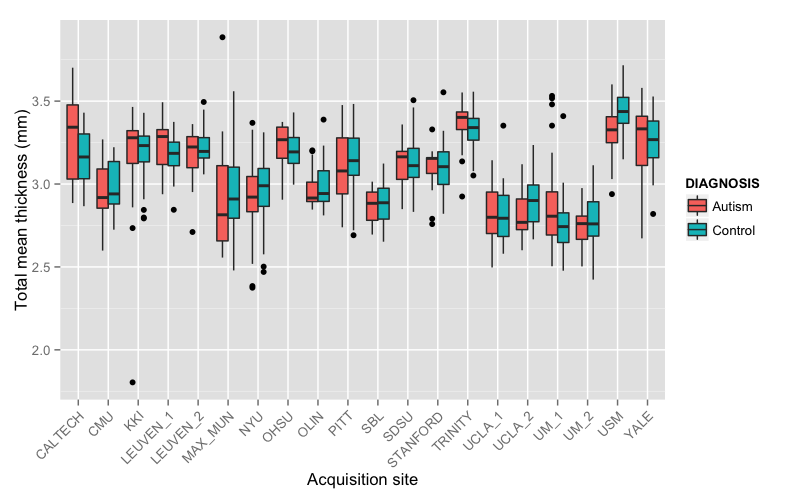
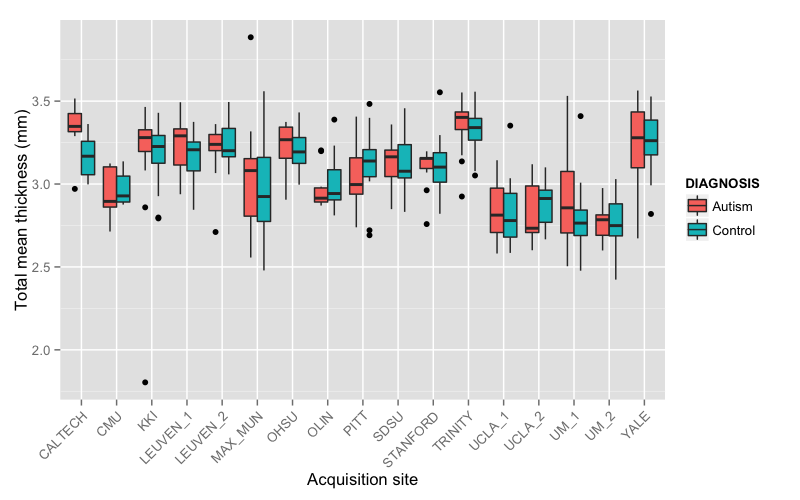
ENH: anova.

diff --git a/index.html b/index.html
@@ -59,6 +59,24 @@
     <style type="text/css">code{white-space: pre;}</style>
 
 
+<style type="text/css">
+table.sourceCode, tr.sourceCode, td.lineNumbers, td.sourceCode {
+  margin: 0; padding: 0; vertical-align: baseline; border: none; }
+table.sourceCode { width: 100%; line-height: 100%; }
+td.lineNumbers { text-align: right; padding-right: 4px; padding-left: 4px; background-color: #dddddd; }
+td.sourceCode { padding-left: 5px; }
+code > span.kw { font-weight: bold; }
+code > span.dt { color: #800000; }
+code > span.dv { color: #0000ff; }
+code > span.bn { color: #0000ff; }
+code > span.fl { color: #800080; }
+code > span.ch { color: #ff00ff; }
+code > span.st { color: #dd0000; }
+code > span.co { color: #808080; font-style: italic; }
+code > span.al { color: #00ff00; font-weight: bold; }
+code > span.fu { color: #000080; }
+code > span.er { color: #ff0000; font-weight: bold; }
+</style>
 
 <link rel="stylesheet" href="index_files/reveal.js-2.6.1/css/theme/beige.css" id="theme">
 
@@ -77,12 +95,19 @@
     <h3 class="date">November 23, 2014</h3>
 </section>
 
-<section><section id="demographics" class="titleslide slide level1"><h1>Demographics</h1></section><section id="all-sites" class="slide level2">
+<section><section id="demographics" class="titleslide slide level1"><h1>Demographics</h1></section><section id="subset-criteria" class="slide level2">
+<h1>Subset Criteria</h1>
+<ul>
+<li>Males</li>
+<li>age: [6, 35]</li>
+<li>handedness: right</li>
+</ul>
+</section><section id="all-sites" class="slide level2">
 <h1>All sites</h1>
-<p>Total number of studies = 979</p>
-<p>males = 833, females = 146</p>
-<p>autism = 459, controls = 520</p>
-<p>rights = 622, lefts = 65, ambis = 14</p>
+<p>Total number of studies = 506</p>
+<p>males = 506, females = 0</p>
+<p>autism = 240, controls = 266</p>
+<p>rights = 506, lefts = 0, ambis = 0</p>
 </section><section id="age-distribution" class="slide level2">
 <h1>Age distribution</h1>
 <p><img src="Figures/ageDistribution.png" /></p>
@@ -108,10 +133,10 @@
 </section></section>
 <section><section id="per-site-demographics" class="titleslide slide level1"><h1>Per site demographics</h1></section><section id="site-demographics" class="slide level2">
 <h1>Site demographics</h1>
-<p>CALTECH: n = 35 (males = 27, females = 8)<br /> CMU: n = 25 (males = 19, females = 6)<br /> KKI: n = 51 (males = 40, females = 11)<br /> LEUVEN_1: n = 27 (males = 27, females = 0)<br /> LEUVEN_2: n = 35 (males = 27, females = 8)<br /> MAX_MUN: n = 53 (males = 47, females = 6)<br /> NYU: n = 168 (males = 134, females = 34)<br /> OHSU: n = 25 (males = 25, females = 0)<br /> OLIN: n = 32 (males = 28, females = 4)<br /> PITT: n = 53 (males = 45, females = 8)</p>
+<p>CALTECH: n = 12 (males = 12, females = 0)<br /> CMU: n = 15 (males = 15, females = 0)<br /> KKI: n = 33 (males = 33, females = 0)<br /> LEUVEN_1: n = 25 (males = 25, females = 0)<br /> LEUVEN_2: n = 24 (males = 24, females = 0)<br /> MAX_MUN: n = 40 (males = 40, females = 0)<br /> OHSU: n = 25 (males = 25, females = 0)<br /> OLIN: n = 23 (males = 23, females = 0)<br /> PITT: n = 39 (males = 39, females = 0)<br /> SDSU: n = 22 (males = 22, females = 0)</p>
 </section><section id="site-demographics-continued" class="slide level2">
 <h1>Site demographics (continued)</h1>
-<p>SBL: n = 29 (males = 29, females = 0)<br /> SDSU: n = 33 (males = 26, females = 7)<br /> STANFORD: n = 37 (males = 29, females = 8)<br /> TRINITY: n = 43 (males = 43, females = 0)<br /> UCLA_1: n = 66 (males = 60, females = 6)<br /> UCLA_2: n = 24 (males = 22, females = 2)<br /> UM_1: n = 90 (males = 68, females = 22)<br /> UM_2: n = 33 (males = 31, females = 2)<br /> USM: n = 68 (males = 68, females = 0)<br /> YALE: n = 52 (males = 38, females = 14)</p>
+<p>STANFORD: n = 25 (males = 25, females = 0)<br /> TRINITY: n = 43 (males = 43, females = 0)<br /> UCLA_1: n = 54 (males = 54, females = 0)<br /> UCLA_2: n = 18 (males = 18, females = 0)<br /> UM_1: n = 53 (males = 53, females = 0)<br /> UM_2: n = 27 (males = 27, females = 0)<br /> YALE: n = 28 (males = 28, females = 0)</p>
 </section><section id="age" class="slide level2">
 <h1>Age</h1>
 <p><img src="Figures/siteAgeDistribution.png" /></p>
@@ -134,6 +159,94 @@
 </section><section id="total-mean-thickness" class="slide level2">
 <h1>Total mean thickness</h1>
 <p><img src="Figures/siteThVolumeDistribution.png" /></p>
+</section></section>
+<section><section id="paper-results" class="titleslide slide level1"><h1>Paper results</h1></section><section id="results-intracranial-volume" class="slide level2">
+<h1>Results: Intracranial volume</h1>
+<!-- ANOVA:  `total.volume ~ dx.group + site + age + fiq` -->
+
+
+<pre class="sourceCode r"><code class="sourceCode r"><span class="kw">library</span>( xtable )
+results &lt;-<span class="st"> </span><span class="kw">read.csv</span>( <span class="st">&#39;./Data/labelresultsAntsSubset.csv&#39;</span> )
+fit &lt;-<span class="st"> </span><span class="kw">aov</span>( total.volume ~<span class="st"> </span>dx.group +<span class="st"> </span>site +<span class="st"> </span>age +<span class="st"> </span>fiq, <span class="dt">data =</span> results )
+<span class="kw">print</span>(<span class="kw">xtable</span>(<span class="kw">anova</span>(fit)), <span class="dt">type =</span> <span class="st">&quot;html&quot;</span>)</code></pre>
+<!-- html table generated in R 3.1.1 by xtable 1.7-3 package -->
+<!-- Mon Nov 24 15:46:39 2014 -->
+<TABLE border=1>
+<TR> <TH>  </TH> <TH> 
+Df
+</TH> <TH> 
+Sum Sq
+</TH> <TH> 
+Mean Sq
+</TH> <TH> 
+F value
+</TH> <TH> 
+Pr(&gt;F)
+</TH>  </TR>
+  <TR> <TD> 
+dx.group
+</TD> <TD align="right"> 
+1
+</TD> <TD align="right"> 
+37011484306.78
+</TD> <TD align="right"> 
+37011484306.78
+</TD> <TD align="right"> 
+2.21
+</TD> <TD align="right"> 
+0.1378
+</TD> </TR>
+  <TR> <TD> 
+site
+</TD> <TD align="right"> 
+15
+</TD> <TD align="right"> 
+3172830475532.21
+</TD> <TD align="right"> 
+211522031702.15
+</TD> <TD align="right"> 
+12.63
+</TD> <TD align="right"> 
+0.0000
+</TD> </TR>
+  <TR> <TD> 
+age
+</TD> <TD align="right"> 
+1
+</TD> <TD align="right"> 
+414311471003.27
+</TD> <TD align="right"> 
+414311471003.27
+</TD> <TD align="right"> 
+24.74
+</TD> <TD align="right"> 
+0.0000
+</TD> </TR>
+  <TR> <TD> 
+fiq
+</TD> <TD align="right"> 
+1
+</TD> <TD align="right"> 
+83075232611.66
+</TD> <TD align="right"> 
+83075232611.66
+</TD> <TD align="right"> 
+4.96
+</TD> <TD align="right"> 
+0.0264
+</TD> </TR>
+  <TR> <TD> 
+Residuals
+</TD> <TD align="right"> 
+463
+</TD> <TD align="right"> 
+7754563703255.55
+</TD> <TD align="right"> 
+16748517717.61
+</TD> <TD align="right">  </TD> <TD align="right">  </TD> </TR>
+   </TABLE>
+
+
 </section></section>
     </div>
   </div>
